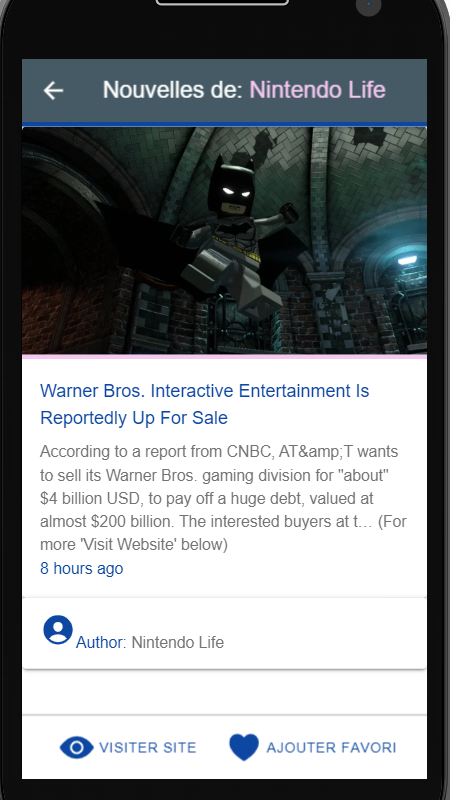
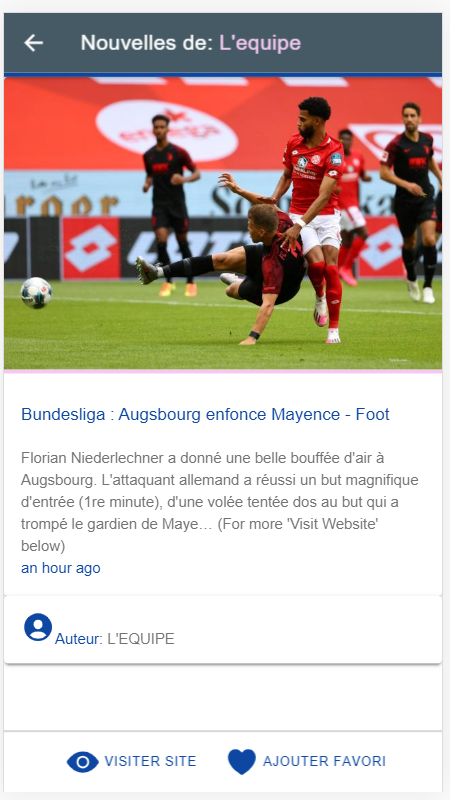
screens shots replaced, readme updated, translatons added

diff --git a/src/app/pages/news-detail/news-detail.page.html b/src/app/pages/news-detail/news-detail.page.html
@@ -49,7 +49,7 @@
             <ion-text
               ><span class="author-text"
                 ><ion-icon size="large" name="person-circle"></ion-icon
-                >Author: </span
+                >{{ 'NEWS-DETAIL.author' | translate }}: </span
               >{{ article.author }}</ion-text
             >
           </ion-card-content>

diff --git a/src/app/providers/theme.service.ts b/src/app/providers/theme.service.ts
@@ -6,6 +6,8 @@ import { Storage } from "@ionic/storage";
 @Injectable({
   providedIn: "root",
 })
+
+// enable dark or light mode from html toggle switch event via changeThemeMode() function
 export class ThemeService {
   darkMode: boolean;
   renderer: Renderer2;

diff --git a/README.md b/README.md
@@ -1,6 +1,6 @@
 # :zap: Ionic Angular News App
 
-* App to search for and display news items from a [news API](https://newsapi.org/) using the [Ionic 5 framework](https://ionicframework.com/docs).
+* Displays news items from a [news API](https://newsapi.org/) using the [Ionic 5 framework](https://ionicframework.com/docs).
 
 ## :page_facing_up: Table of contents
 
@@ -62,7 +62,7 @@
 * [RxJS v6](https://reactivex.io/)
 * [News REST API used to search for news articles](https://newsapi.org/)
 * [IP Geolocation API](https://ipapi.co/#api)
-* [Ionic Storage v2](https://ionicframework.com/docs/building/storage) - remove?
+* [Ionic Storage v2](https://ionicframework.com/docs/building/storage)
 * [Ionic Native Network v5](https://ionicframework.com/docs/native/network)
 * [Ionic ngx-Translate v12](https://ionicframework.com/docs/v3/developer-resources/ng2-translate/)
 * [NGX-Translate internationalization library for Angular](http://www.ngx-translate.com/)
@@ -79,83 +79,38 @@
 
 ## :computer: Code Examples
 
-* function to identify the user's country and show news for that country when app first initialises.
+* function to switch dark/light display mode
 
 ```typescript
-// array of countries served by the news API service - does not include Spain
-const countryCodeArray = [
-  "ae",
-  "ar",
-  "at",
-  "au",
-  "be",
-  "bg",
-  "br",
-  "ca",
-  "ch",
-  "cn",
-  "co",
-  "cu",
-  "cz",
-  "de",
-  "eg",
-  "fr",
-  "gb",
-  "gr",
-  "hk",
-  "hu",
-  "id",
-  "ie",
-  "il",
-  "in",
-  "it",
-  "jp",
-  "kr",
-  "lt",
-  "lv",
-  "ma",
-  "mx",
-  "my",
-  "ng",
-  "nl",
-  "no",
-  "nz",
-  "ph",
-  "pl",
-  "pt",
-  "ro",
-  "rs",
-  "ru",
-  "sa",
-  "se",
-  "sg",
-  "si",
-  "sk",
-  "th",
-  "tr",
-  "tw",
-  "ua",
-  "us",
-  "ve",
-  "za",
-];
+// enable dark or light mode from html toggle switch event via changeThemeMode() function
+export class ThemeService {
+  darkMode: boolean;
+  renderer: Renderer2;
 
-/* fetch user country via separate service function provider
-fetch news for that country
-use defaultCountry if country not in countryCode array
-*/
-this.newsService.getCountryCode().subscribe((data) => {
-  console.log("country code search: ", data);
-  const countryData = data;
-  this.countryCode = countryData.countryCode.toLowerCase();
-  const checkedCountryCode =
-    countryCodeArray.indexOf(this.countryCode.toLowerCase()) === -1
-      ? this.defaultCountry
-      : countryData.countryCode.toLowerCase();
-  console.log("Country code is: ", checkedCountryCode);
-  this.StorageService.storeData("userCountry", checkedCountryCode.toString());
-  this.getCountryNews(checkedCountryCode);
-});
+  constructor(
+    private rendererFactory: RendererFactory2,
+    private storage: Storage,
+    @Inject(DOCUMENT) private document: Document
+  ) {
+    this.renderer = this.rendererFactory.createRenderer(null, null);
+  }
+
+  enableDark() {
+    this.renderer.addClass(this.document.body, "dark-theme");
+    this.storage.set("dark-theme", true);
+    this.darkMode = true;
+  }
+
+  enableLight() {
+    this.renderer.removeClass(this.document.body, "dark-theme");
+    this.storage.set("dark-theme", false);
+    this.darkMode = false;
+  }
+
+  changeThemeMode(e: any) {
+    e.detail.checked ? this.enableDark() : this.enableLight();
+  }
+}
 ```
 
 ## :cool: Features
@@ -163,7 +118,7 @@ this.newsService.getCountryCode().subscribe((data) => {
 * **Typescript interface** used to define the expected structures of the JSON objects returned from the IP and news APIs
 * **Separate providers (services)** page with API http fetch rxjs observables
 * **Custom pipes** used to modify API news article titles, contents and derive '..time ago' from a date string
-* **Dark mode** switch on menu changes from light to dark mode
+* **Dark mode** Menua toggle changes from light to dark mode
 * **Offline Storage** of dark mode status & favourite articles using Ionic Storage
 * **Common Refresh Component** dragging down will perform refresh function
 * **Common Progess Bar Component** ion-card shows while news loading on News, Categories and Favourites pages
@@ -176,7 +131,7 @@ this.newsService.getCountryCode().subscribe((data) => {
 * **Nav side-bar:** news, categories, favorites, search, about, change language, dark theme toggle + Unsplash image with credit. Sidemenu is dismissed when the user clicks on a list item.
 * **News page** shows world headlines using an ion-card list. Uses \*ngIf to only show card if it has an image to avoid having news items with empty spaces (API data is not perfect). Shows time as '... ago' using a date convert pipe that uses day.js to convert the API Coordinated Universal Time (UTC) date-time string to '...ago'.
 * **News-detail page** shows the selected news item in more detail. Title has news source end text removed using a custom Angular pipe as I show this information in the top toolbar. Also uses custom pipe to show time as '... ago'. Includes working footer buttons for 'More info', which opens news source in a separate window and 'Favourite' which adds the article to a stored news 'favourites' array. Array symbol at end of article content string replaced with text using split and concat. **Remove `<li>` from content text using regex** .
-* **Categories page:** ion-segment used to show categories in a scrollable horizontal menu: Sport, Busines, Health, Technology, Science, General, Entertainment. Shows time as '... ago'.
+* **Categories page:** ion-segment used to show categories in a scrollable horizontal menu: Sport, Busines, Health, Technology, Science, General, Entertainment. So far categories only shown from English sources. Shows time as '... ago'.
 * **Favourites page:** articles listed in reverse date-time order that have been saved by clicking on the favourites icon on the news-detail page. **Include popover that will let user delete all list items, sliding from the right deletes the favourite, prevent storage of duplicate articles. Add 'delete all' button at top. lhs sliding delete is not working.**
 * **About page** Displays Unsplash image with author credit and short info about the app with links to APIs used. Header includes popover with links to Author Website, Github Repo and a Contact Page.
 
